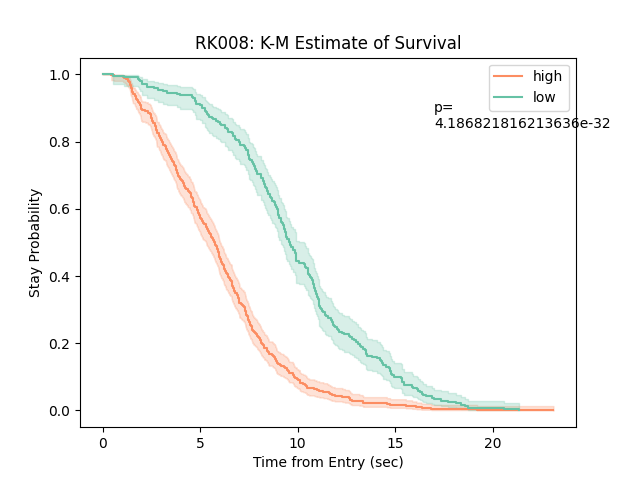
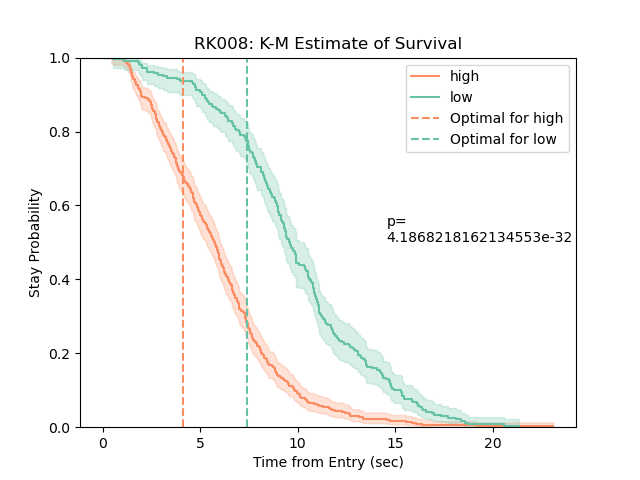
Added adjusted optimal leave time to survival plot so readers can compare the observed behavior and optimality

diff --git a/figure_making/fig_survival_analysis.py b/figure_making/fig_survival_analysis.py
@@ -50,6 +50,53 @@ def perform_log_rank_test(trial_df):
     results.print_summary()
     return results.summary
 
+def calculate_actual_travel_time(trial_df):
+    trial_df['bg_stay'] = trial_df['bg_exit'] - trial_df['bg_entry']
+    bg_stay_low = trial_df.loc[trial_df['phase'] == '0.4', 'bg_stay'].mean()
+    bg_stay_high = trial_df.loc[trial_df['phase'] == '0.8', 'bg_stay'].mean()
+    # travel times from bg to exp
+    travel_times_bg_to_exp = []
+    for index, row in trial_df.iterrows():
+        if row['bg_exit'] and row['exp_entry']:
+            travel_time = row['exp_entry'] - row['bg_exit']
+            travel_times_bg_to_exp.append(travel_time)
+        else:
+            travel_times_bg_to_exp.append(np.nan)
+    trial_df['travel_time_bg_to_exp'] = travel_times_bg_to_exp
+    # travel times from exp to bg in the next trial
+    bg_entry_map = trial_df.set_index(['session', 'trial'])['bg_entry']
+    next_trial_indices = [(row['session'], row['trial'] + 1) for index, row in trial_df.iterrows()]
+    trial_df['next_trial_bg_entry'] = [bg_entry_map.get(idx) for idx in next_trial_indices]
+    travel_times_exp_to_bg = []
+    for index, row in trial_df.iterrows():
+        if row['next_trial_bg_entry'] and row['exp_exit']:
+            travel_time = row['next_trial_bg_entry'] - row['exp_exit']
+            travel_times_exp_to_bg.append(travel_time)
+        else:
+            travel_times_exp_to_bg.append(np.nan)
+    trial_df['travel_time_exp_to_bg'] = travel_times_exp_to_bg
+    travel_bg2exp = trial_df['travel_time_bg_to_exp'].mean()
+    travel_exp2bg = trial_df['travel_time_exp_to_bg'].mean()
+    return bg_stay_low, bg_stay_high, travel_bg2exp, travel_exp2bg
+
+def calculate_adjusted_optimal(trial_df):
+    x = np.arange(0, 25, 0.1)
+    bg_stay_low, bg_stay_high, travel_bg2exp, travel_exp2bg = calculate_actual_travel_time(trial_df)
+    global_reward_rate_low = _global_reward_rate(x, bg_stay_low, travel_bg2exp, travel_exp2bg)
+    global_reward_rate_high = _global_reward_rate(x, bg_stay_high, travel_bg2exp, travel_exp2bg)
+    optimal_low = x[np.argmax(global_reward_rate_low)]
+    optimal_high = x[np.argmax(global_reward_rate_high)]
+    return np.round(optimal_low, 1), np.round(optimal_high, 1)
+
+def _global_reward_rate(x, bg_stay, travel_bg2exp, travel_exp2bg, cumulative=8., starting=1.):
+    a = starting
+    b = a / cumulative
+    local_gain = cumulative * (1 - np.exp(-b * x))
+    global_gain = local_gain + 4
+    rou_g = global_gain / (x + bg_stay + travel_bg2exp + travel_exp2bg)
+    return rou_g
+
+
 def main():
     # animal_str = 'SZ036'
     # for i in range(0, 15):
@@ -60,32 +107,44 @@ def main():
     #     plot_kaplan_meier(trial_df)
 
 
-    # for animal in ["SZ036", "SZ037", "SZ038", "SZ039", "SZ042", "SZ043"]:
-    #     animal_ids = [animal]
-    #     master_df = data_loader.load_dataframes_for_animal_summary(animal_ids, 'trial_df',
-    #                                                             day_0='2023-11-30', hemisphere_qc=0, file_format='parquet')
-    #     fig, ax = plt.subplots()
-    #     plot_kaplan_meier(master_df, title_head=animal_ids[0])
-    #     results = perform_log_rank_test(master_df)
-    #     p = results["p"].to_numpy()[0]
-    #     x_min, x_max = plt.xlim()
-    #     y_min, y_max = plt.ylim()
-    #     ax.text(0.7 * x_max, 0.8 * y_max, f"p=\n{p}")
-    #     plt.savefig(f"{animal_ids[0]}_K-M_survival_curves.png")
-    #     fig.show()
-    #     plt.close()
+    for animal in ["SZ036", "SZ037", "SZ038", "SZ039", "SZ042", "SZ043"]:
+        animal_ids = [animal]
+        master_df = data_loader.load_dataframes_for_animal_summary(animal_ids, 'trial_df',
+                                                                day_0='2023-11-30', hemisphere_qc=0, file_format='parquet')
+        optimal_low, optimal_high = calculate_adjusted_optimal(master_df)
+        color_palette = sns.color_palette("Set2")
+        fig, ax = plt.subplots()
+        plot_kaplan_meier(master_df, title_head=animal_ids[0])
+        plt.axvline(x=optimal_high, color=color_palette[1], linestyle='--', label=f'Optimal for high')
+        plt.axvline(x=optimal_low, color=color_palette[0], linestyle='--', label=f'Optimal for low')
+        plt.legend()
+        plt.ylim([0, 1])
+        results = perform_log_rank_test(master_df)
+        p = results["p"].to_numpy()[0]
+        x_min, x_max = plt.xlim()
+        y_min, y_max = plt.ylim()
+        ax.text(0.6 * x_max, 0.5 * y_max, f"p=\n{p}")
+        plt.savefig(f"{animal_ids[0]}_K-M_survival_curves.png")
+        fig.show()
+        plt.close()
 
     for animal in ["RK007", "RK008"]:
         animal_ids = [animal]
         master_df = data_loader.load_dataframes_for_animal_summary(animal_ids, 'trial_df',
                                                                 day_0='2025-06-17', hemisphere_qc=0, file_format='parquet')
+        optimal_low, optimal_high = calculate_adjusted_optimal(master_df)
+        color_palette = sns.color_palette("Set2")
         fig, ax = plt.subplots()
         plot_kaplan_meier(master_df, title_head=animal_ids[0])
+        plt.axvline(x=optimal_high, color=color_palette[1], linestyle='--', label=f'Optimal for high')
+        plt.axvline(x=optimal_low, color=color_palette[0], linestyle='--', label=f'Optimal for low')
+        plt.legend()
+        plt.ylim([0, 1])
         results = perform_log_rank_test(master_df)
         p = results["p"].to_numpy()[0]
         x_min, x_max = plt.xlim()
         y_min, y_max = plt.ylim()
-        ax.text(0.7 * x_max, 0.8 * y_max, f"p=\n{p}")
+        ax.text(0.6 * x_max, 0.5 * y_max, f"p=\n{p}")
         plt.savefig(f"{animal_ids[0]}_K-M_survival_curves.png")
         fig.show()
         plt.close()
